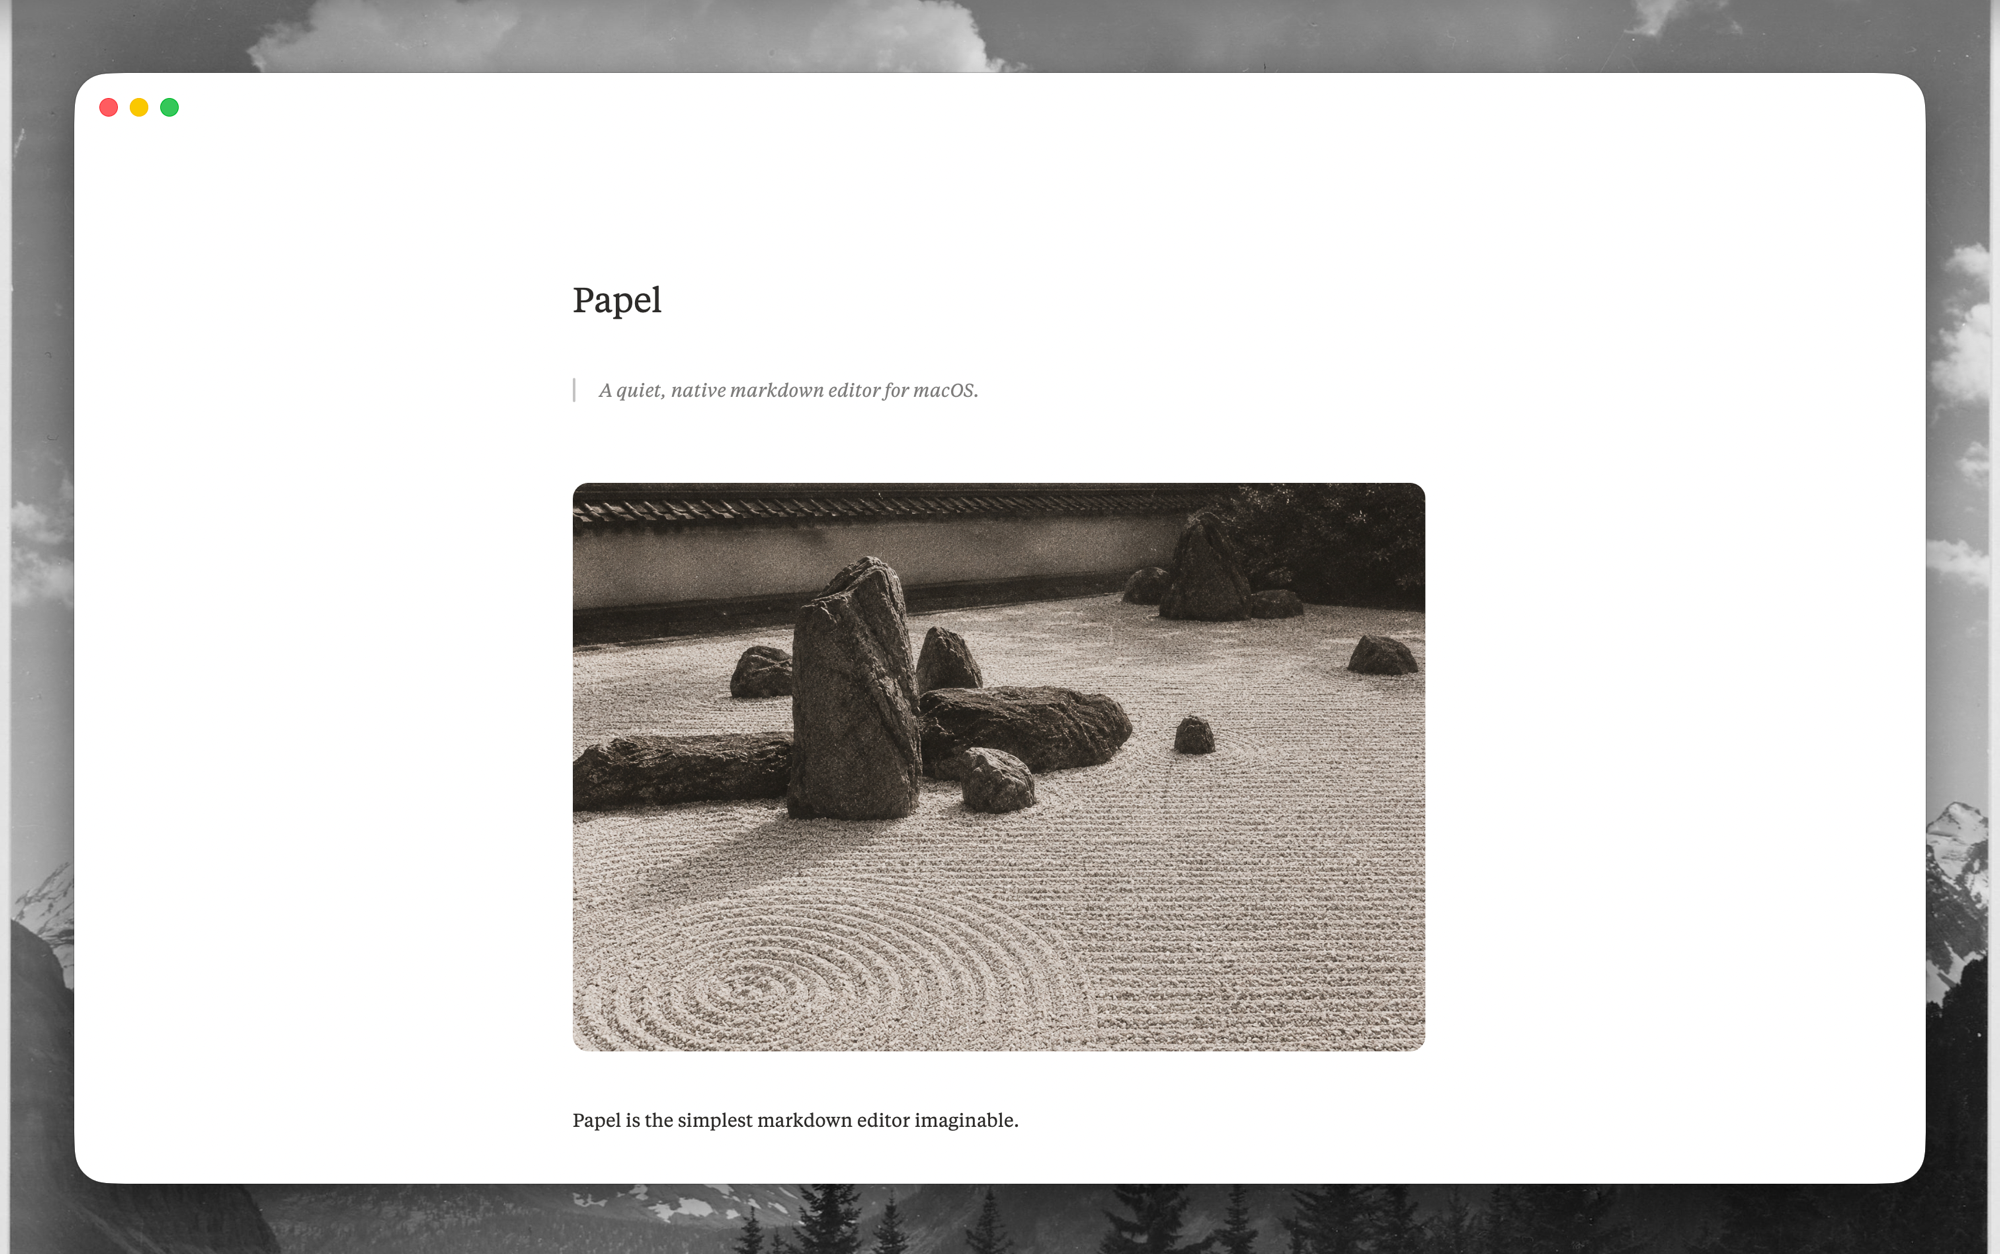
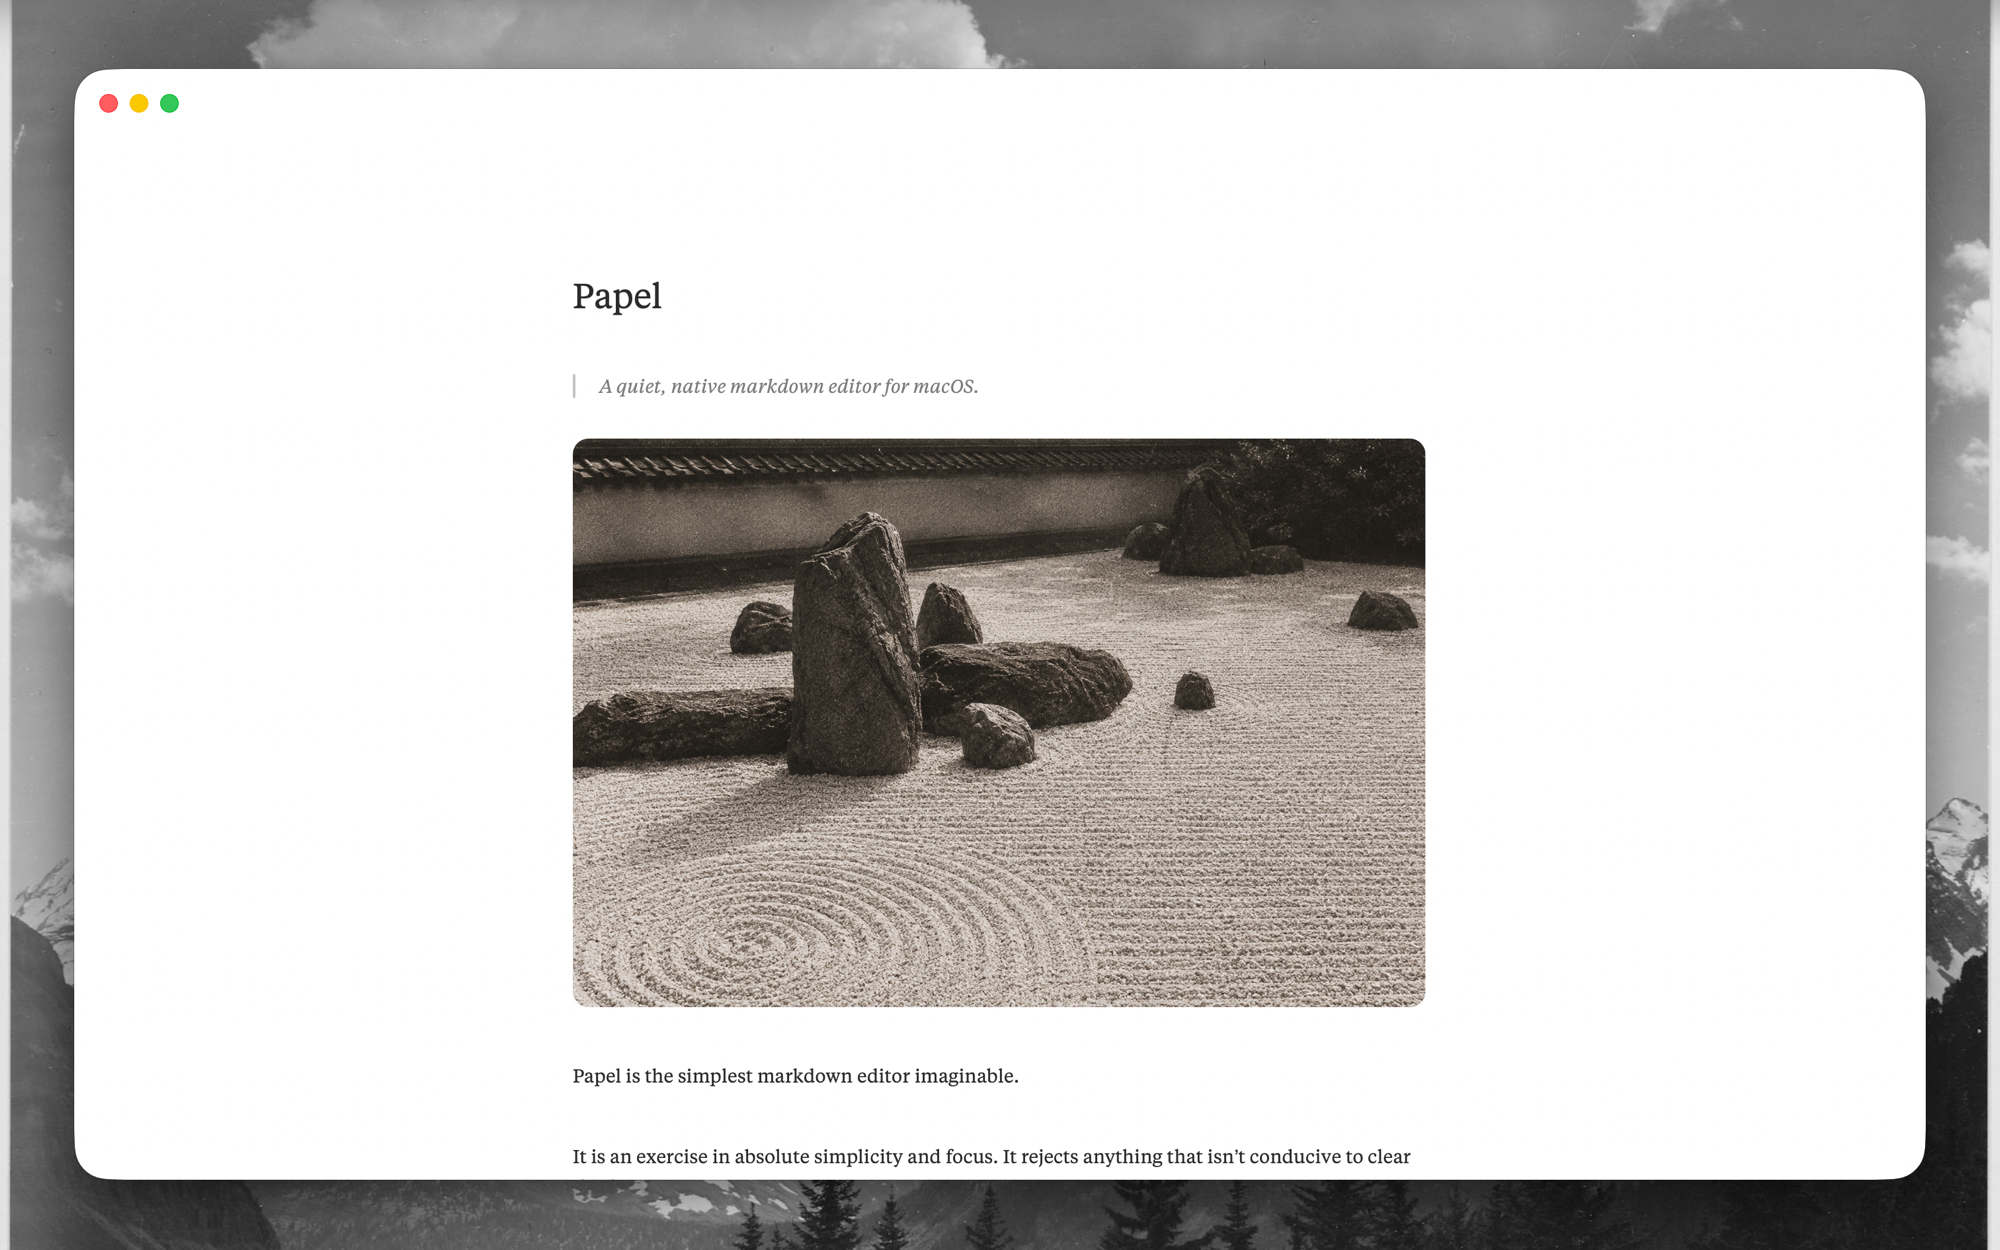
Final capture

diff --git a/site/index.html b/site/index.html
@@ -173,7 +173,7 @@
   <p class="buttons"><a class="pill download" href="https://github.com/humanitas-labs/papel/releases/latest/download/Papel.dmg" download><svg viewBox="0 0 24 24" aria-hidden="true"><path d="M12.152 6.896c-.948 0-2.415-1.078-3.96-1.04-2.04.027-3.91 1.183-4.961 3.014-2.117 3.675-.546 9.103 1.519 12.09 1.013 1.454 2.208 3.09 3.792 3.039 1.52-.065 2.09-.987 3.935-.987 1.831 0 2.35.987 3.96.948 1.637-.026 2.676-1.48 3.676-2.948 1.156-1.688 1.636-3.325 1.662-3.415-.039-.013-3.182-1.221-3.22-4.857-.026-3.04 2.48-4.494 2.597-4.559-1.429-2.09-3.623-2.324-4.39-2.376-2-.156-3.675 1.09-4.61 1.09zM15.53 3.83c.843-1.012 1.4-2.427 1.245-3.83-1.207.052-2.662.805-3.532 1.818-.78.896-1.454 2.338-1.273 3.714 1.338.104 2.715-.688 3.559-1.701"/></svg>Download for Mac</a><a class="pill outline" href="https://github.com/humanitas-labs/papel"><svg viewBox="0 0 24 24" aria-hidden="true"><path d="M12 .297c-6.63 0-12 5.373-12 12 0 5.303 3.438 9.8 8.205 11.385.6.113.82-.258.82-.577 0-.285-.01-1.04-.015-2.04-3.338.724-4.042-1.61-4.042-1.61C4.422 18.07 3.633 17.7 3.633 17.7c-1.087-.744.084-.729.084-.729 1.205.084 1.838 1.236 1.838 1.236 1.07 1.835 2.809 1.305 3.495.998.108-.776.417-1.305.76-1.605-2.665-.3-5.466-1.332-5.466-5.93 0-1.31.465-2.38 1.235-3.22-.135-.303-.54-1.523.105-3.176 0 0 1.005-.322 3.3 1.23.96-.267 1.98-.399 3-.405 1.02.006 2.04.138 3 .405 2.28-1.552 3.285-1.23 3.285-1.23.645 1.653.24 2.873.12 3.176.765.84 1.23 1.91 1.23 3.22 0 4.61-2.805 5.625-5.475 5.92.42.36.81 1.096.81 2.22 0 1.606-.015 2.896-.015 3.286 0 .315.21.69.825.57C20.565 22.092 24 17.592 24 12.297c0-6.627-5.373-12-12-12"/></svg>Source</a><span class="fine">macOS 15 or later · free, MIT</span></p>
   <div class="blank"></div>
 
-  <figure><img src="papel.png" alt="A Papel window showing its own README: a heading, an italic quote behind a rule, and a photograph of a raked rock garden." width="2000" height="1254"></figure>
+  <figure><img src="papel.png" alt="A Papel window showing its own README: a heading, an italic quote behind a rule, and a photograph of a raked rock garden." width="2000" height="1250"></figure>
   <div class="blank"></div>
 
   <p>Papel is the simplest markdown editor imaginable.</p>
